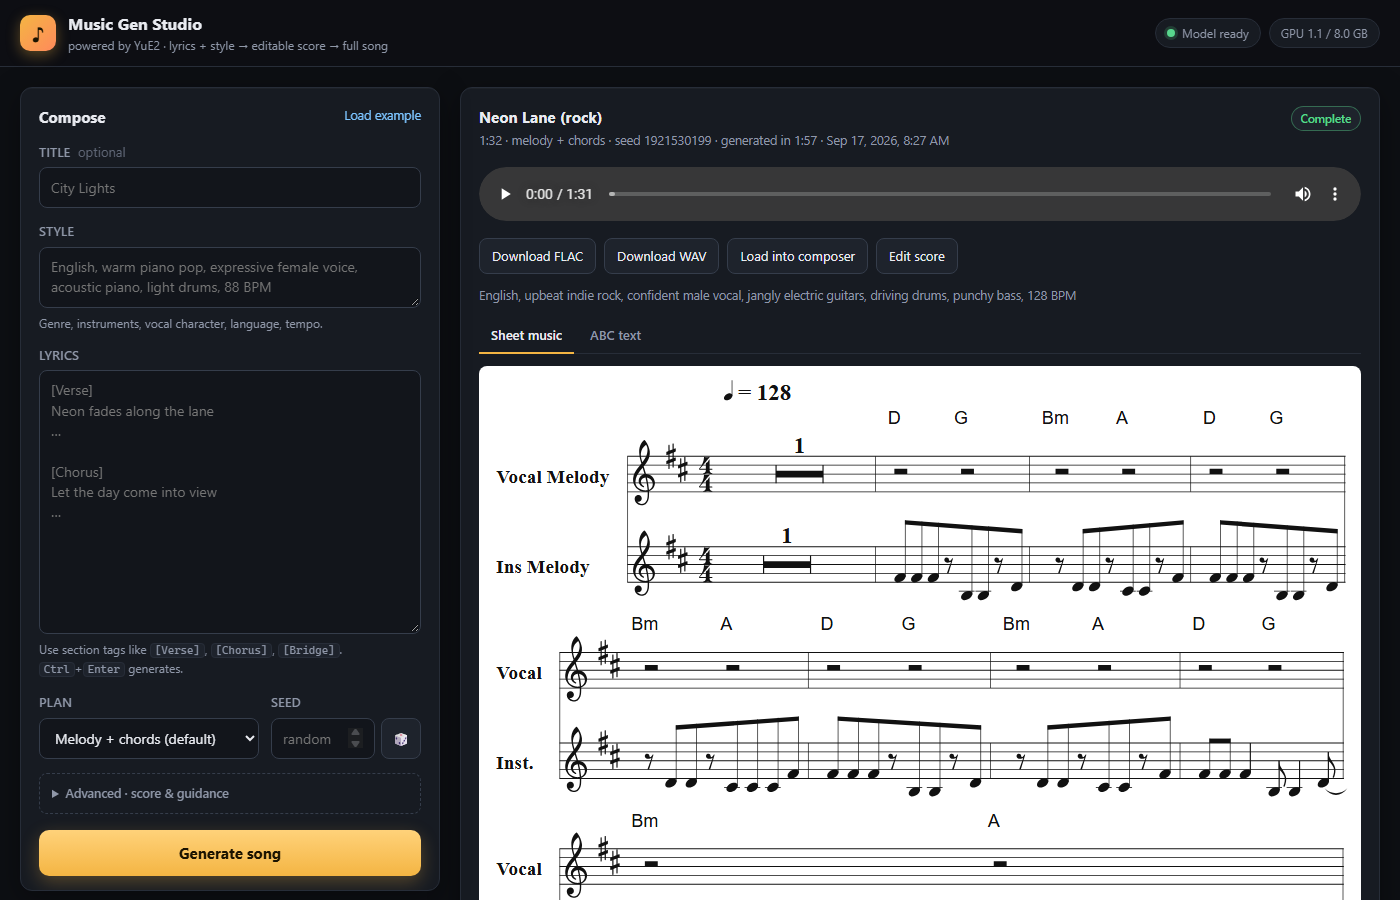
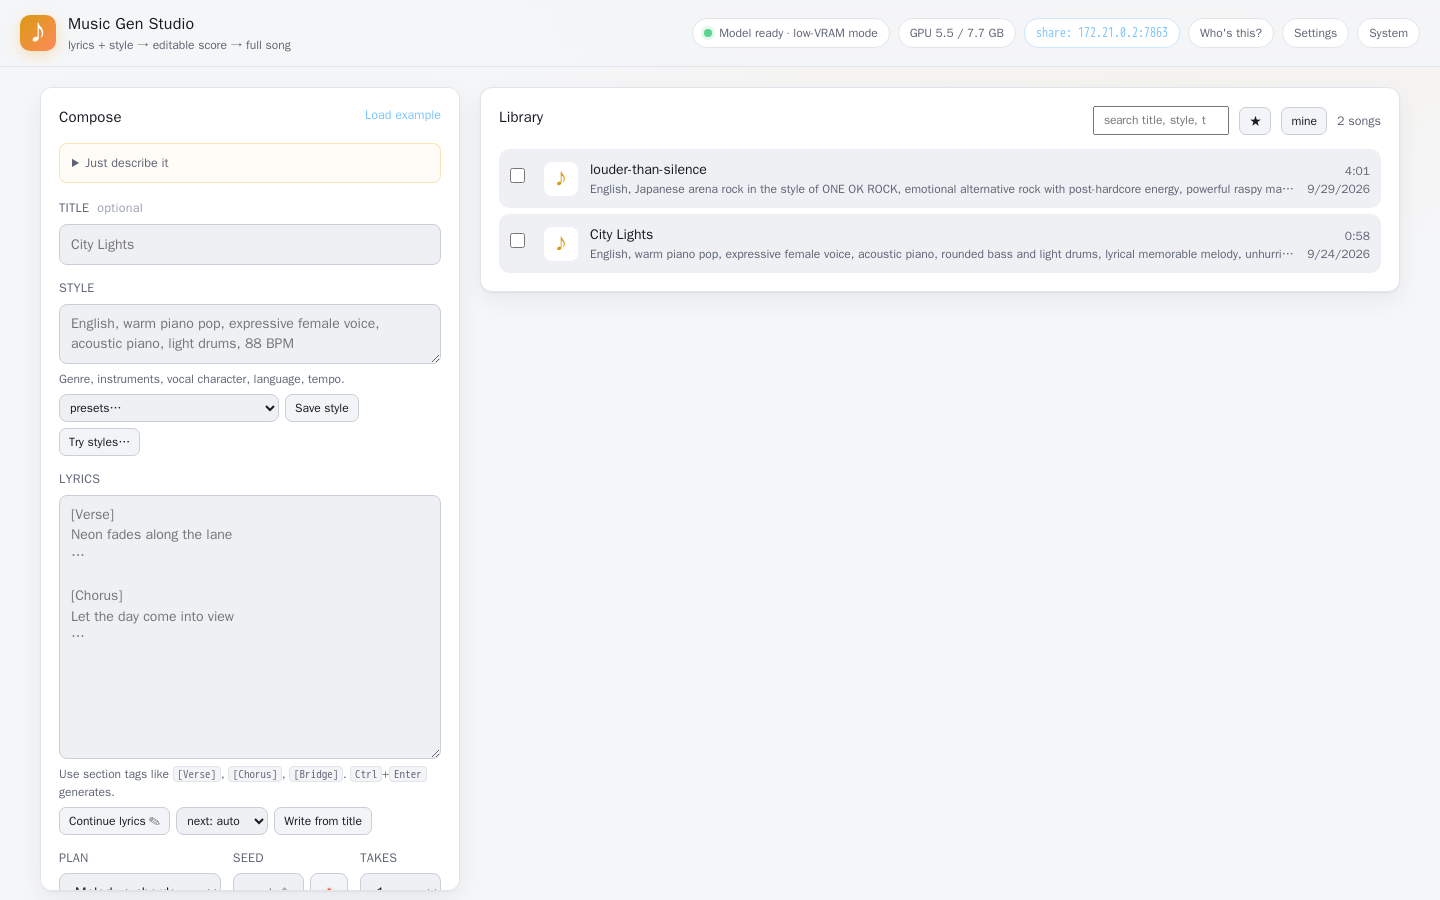
README: refresh the screenshot from the current build, AI Studio Hub

diff --git a/README.md b/README.md
@@ -6,6 +6,8 @@ Upstream targets **Linux, Python 3.12 and a 24 GB GPU**. This repo runs it on **
 
 ![Music Gen Studio](docs/screenshot.png)
 
+It is the **Music Studio** of [AI Studio Hub](https://github.com/jrlabanza/ai-studio-hub), which runs it next to the other local AI tools and shares one GPU between them.
+
 | File | What |
 |---|---|
 | `webui.py` + `webui/` | Local web app: compose, live stage progress, cancel/queue, in-page playback, score rendered as sheet music, edit-and-re-render, library of past songs |
